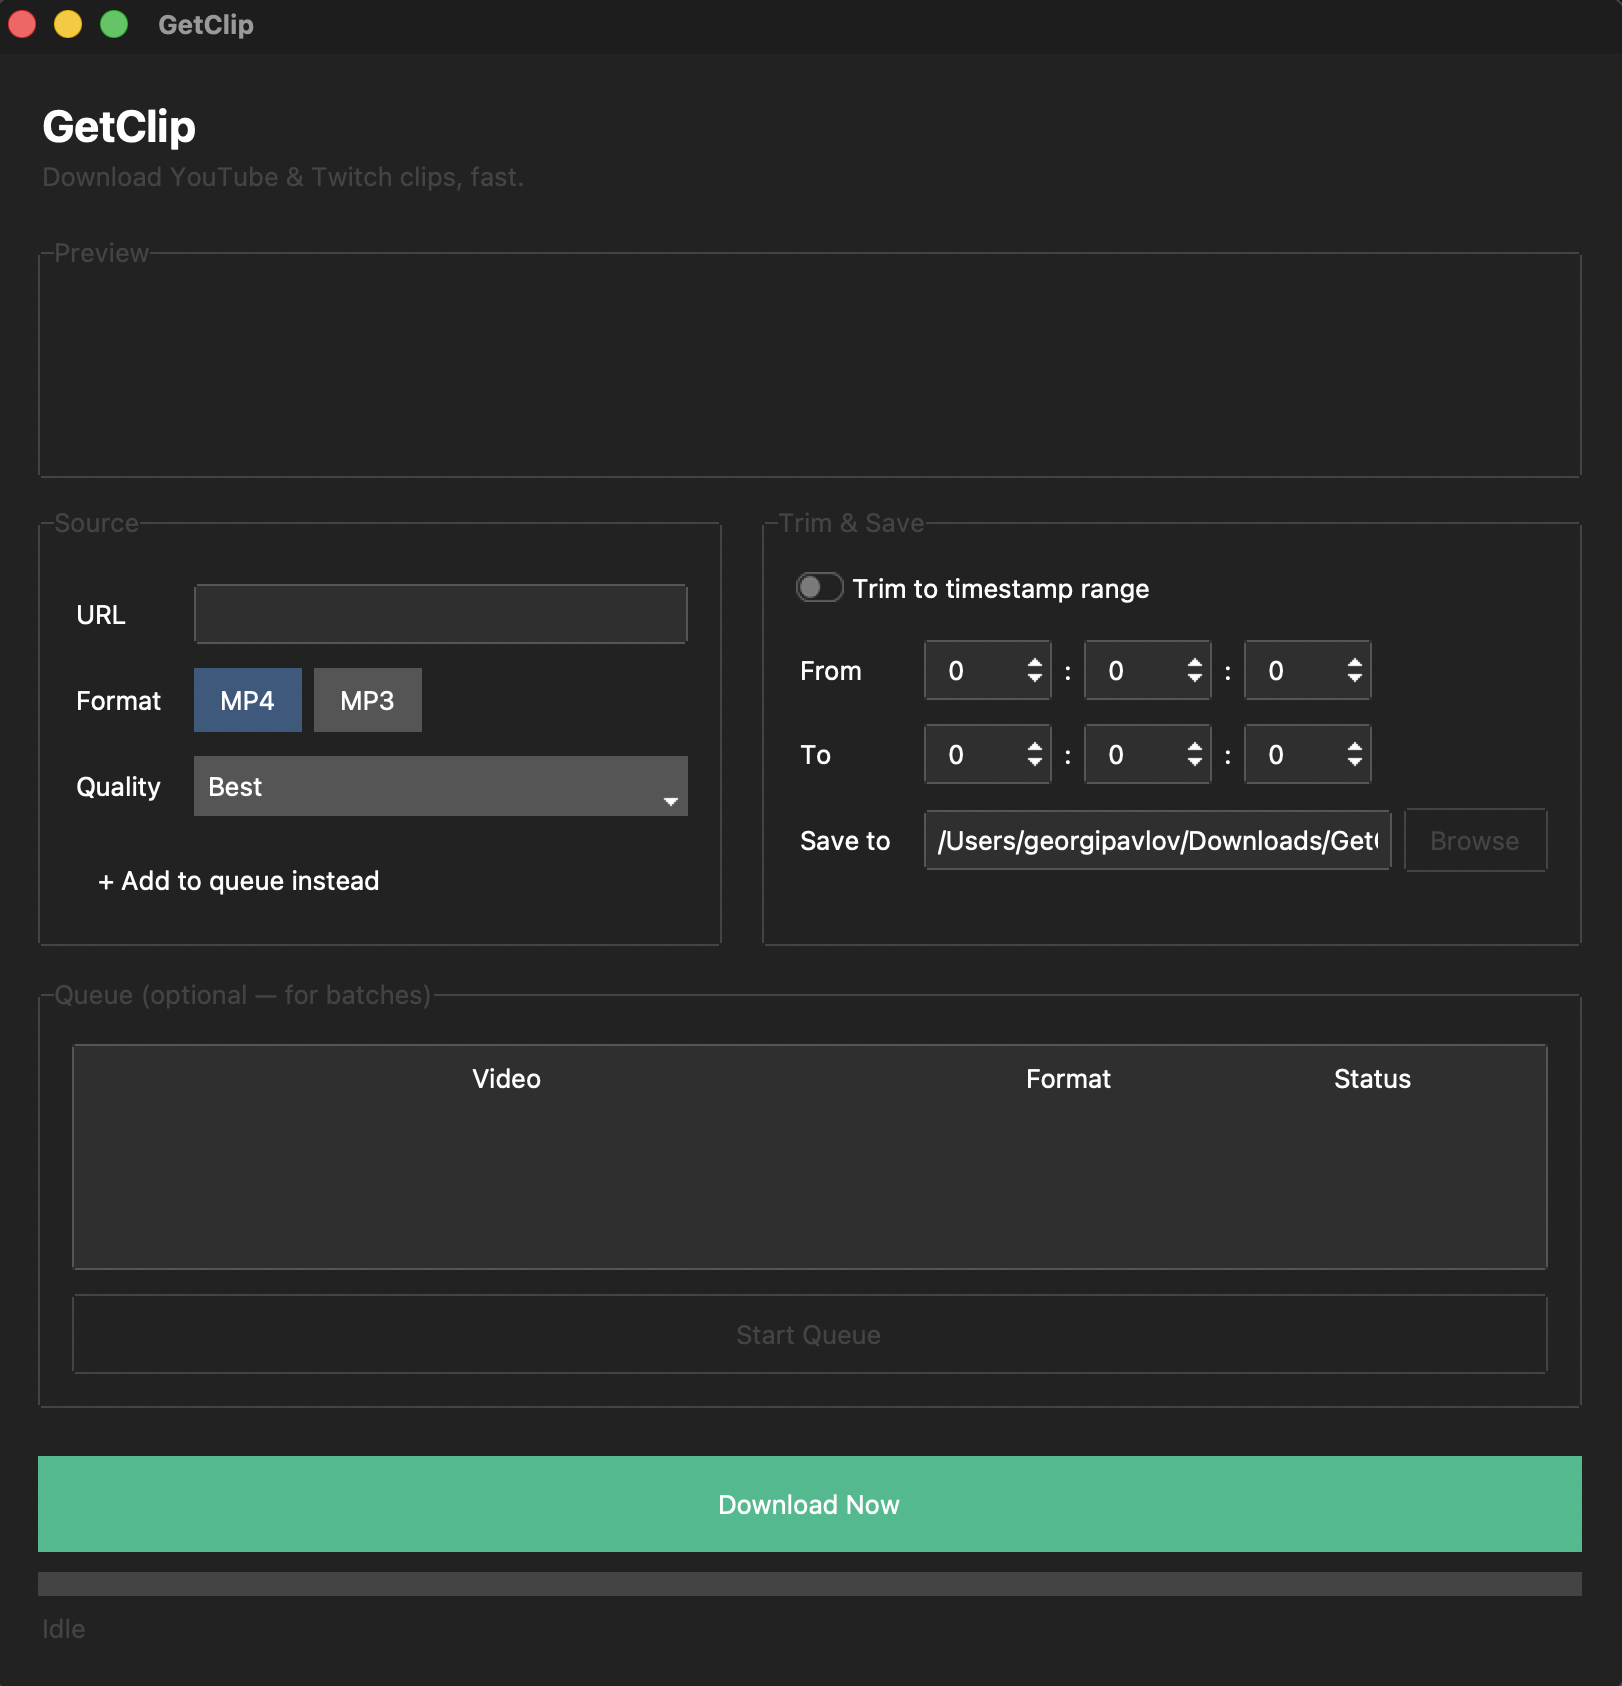
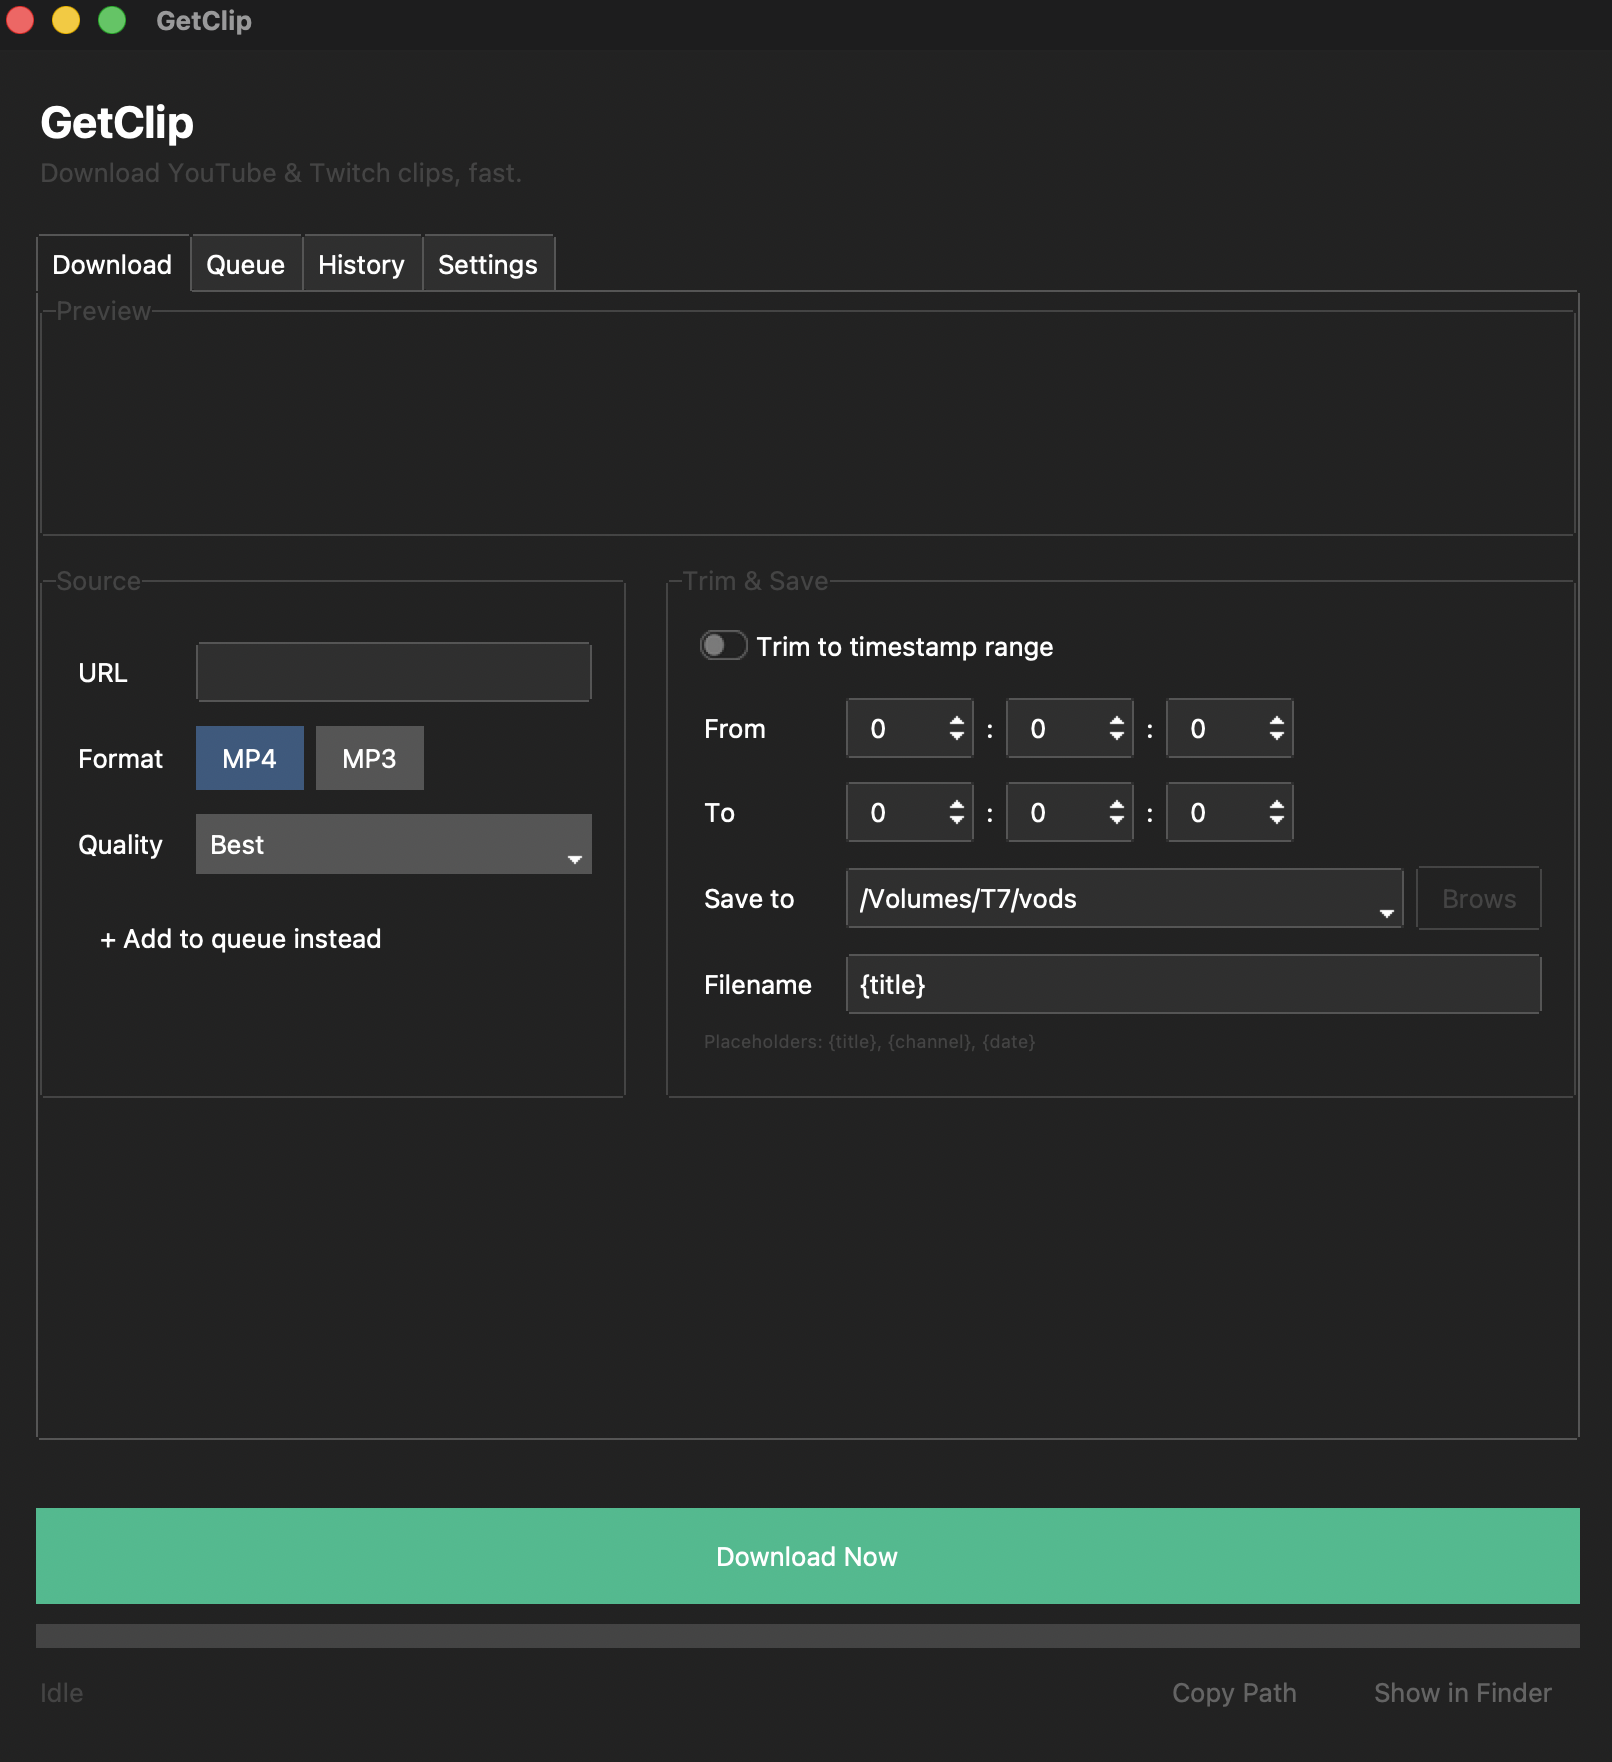
Update README with new features, testing instructions, and project structure

diff --git a/README.md b/README.md
@@ -1,6 +1,6 @@
 # GetClip
 
-A simple desktop app for downloading YouTube videos and Twitch clips/VODs as MP4 or MP3 — with optional timestamp trimming, a live preview before you download, and a batch queue for grabbing multiple videos at once.
+A simple desktop app for downloading YouTube videos and Twitch clips/VODs as MP4 or MP3 — with optional timestamp trimming, a live preview before you download, custom filename templates, and a batch queue for grabbing multiple videos at once.
 
 ![Python](https://img.shields.io/badge/python-3.10%2B-blue)
 ![License](https://img.shields.io/badge/license-MIT-green)
@@ -20,11 +20,16 @@ Grab the latest build from the [Releases page](https://github.com/GZPavlov23/get
 ## Features
 
 - **YouTube videos and Twitch clips/VODs** — auto-detected from the pasted URL, with a contextual hint (e.g. trimming recommended for long VODs)
-- **Live preview** — see the title and thumbnail before committing to a download
+- **Live preview** — see the title, thumbnail, and duration before committing to a download
 - **MP4 or MP3** output, with quality options for video
-- **Timestamp trimming** — grab just the section you need instead of the whole video
+- **Timestamp trimming** — grab just the section you need, using precise H:M:S spinners
+- **Custom filename templates** — save files as `{date}_{title}`, `{channel}_{title}`, or any combination
+- **Recent folders** — quickly switch between your last few used save locations
 - **Batch queue** — add several videos and download them one after another
-- **Download Now** for quick one-off downloads, no queue required
+- **Download history** — a searchable log of everything you've downloaded, with double-click to reveal in Finder
+- **Native notifications** — get notified when a download or queue finishes
+- **Dark/light theme toggle**
+- **Update checker** — see if a newer version is available, right from the Settings tab
 
 ## Running from source
 
@@ -49,6 +54,12 @@ python3 main.py
 ./build.sh
 ```
 This produces `dist/GetClip.app`.
+
+### Running the tests
+```bash
+pip install -r requirements-dev.txt
+python3 -m pytest
+```
 
 ## Project structure
 
